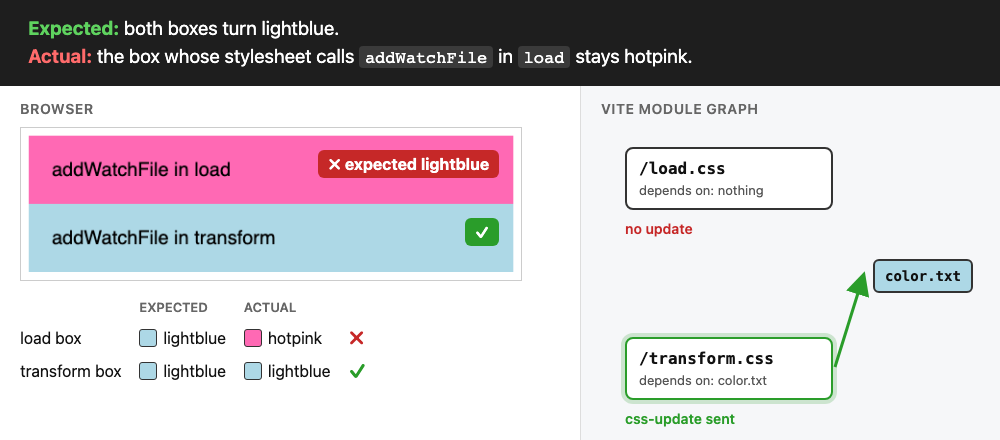
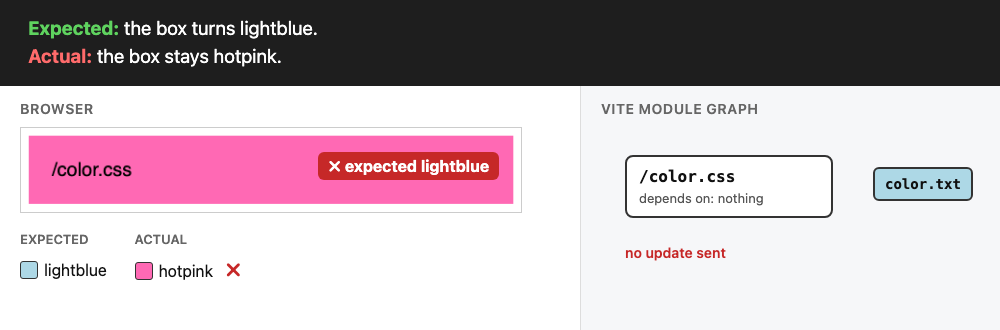
Reduce the repro to one stylesheet

diff --git a/vite.config.js b/vite.config.js
@@ -1,28 +1,20 @@
 import { readFileSync } from "node:fs";
 
 const colorFile = import.meta.dirname + "/color.txt";
-const css = (selector) => `${selector} { background: ${readFileSync(colorFile, "utf8").trim()}; }`;
 
-// Two stylesheets made from color.txt. They differ only in the hook that calls addWatchFile.
+// Makes the stylesheet /color.css from color.txt and watches color.txt
 export default {
   plugins: [
     {
       name: "color-css",
       enforce: "pre",
       resolveId(id) {
-        if (id.startsWith("/load.css") || id.startsWith("/transform.css")) {
-          return import.meta.dirname + id;
-        }
+        if (id.startsWith("/color.css")) return import.meta.dirname + id;
       },
       load(id) {
-        if (id.includes("/load.css")) {
-          this.addWatchFile(colorFile);
-          return css("#load");
-        }
-        if (id.includes("/transform.css")) return css("#transform");
-      },
-      transform(code, id) {
-        if (id.includes("/transform.css")) this.addWatchFile(colorFile);
+        if (!id.includes("/color.css")) return;
+        this.addWatchFile(colorFile);
+        return `div { background: ${readFileSync(colorFile, "utf8").trim()}; }`;
       },
     },
   ],

diff --git a/index.html b/index.html
@@ -1,6 +1,4 @@
 <!doctype html>
-<link rel="stylesheet" href="/load.css" />
-<link rel="stylesheet" href="/transform.css" />
+<link rel="stylesheet" href="/color.css" />
 <style>div { padding: 24px; font: 20px sans-serif; }</style>
-<div id="load">addWatchFile in load</div>
-<div id="transform">addWatchFile in transform</div>
+<div>/color.css</div>

diff --git a/README.md b/README.md
@@ -1,25 +1,18 @@
 # Vite: `addWatchFile` in `load` is lost on a module's first request
 
-![Step by step: the load hook calls addWatchFile before the module node exists, so Vite drops color.txt. After color.txt changes, only the stylesheet that calls addWatchFile in transform updates. Expected both boxes lightblue, actual: the load box stays hotpink](hmr.gif)
+![Step by step: the load hook calls addWatchFile before the module node exists, so Vite drops color.txt. After color.txt changes, Vite sends no update. Expected: the box turns lightblue. Actual: it stays hotpink](hmr.gif)
 
-`index.html` links two stylesheets. A plugin in `vite.config.js` makes both from `color.txt`, a file with one color, and calls `this.addWatchFile("color.txt")` for each. The only difference is the hook that makes the call. When `color.txt` changes, both boxes should take the new color.
+`index.html` links the stylesheet `/color.css`. A plugin in `vite.config.js` makes it from `color.txt`, a file with one color, and calls `this.addWatchFile("color.txt")` in `load`. When `color.txt` changes, the box should take the new color. It keeps the old one.
 
 ## Step by step
 
 The same steps as the GIF:
 
-1. The browser requests `/load.css`. Its `load` hook calls `addWatchFile(color.txt)`. The module node for `/load.css` does not exist yet, so Vite drops the file.
-2. Vite creates the node for `/load.css` after `load`. The node has no dependency.
-3. The browser requests `/transform.css`. It calls `addWatchFile(color.txt)` in `transform`. Its node exists by then, so Vite records the dependency.
-4. `color.txt` changes from hotpink to lightblue.
-5. Vite updates the modules that depend on `color.txt`. Only `/transform.css` does, so only its box turns blue.
+1. The browser requests `/color.css`. Its `load` hook calls `addWatchFile(color.txt)`. The module node for `/color.css` does not exist yet, so Vite drops the file.
+2. Vite creates the node for `/color.css` after `load`. The node does not depend on `color.txt`.
+3. `color.txt` changes from hotpink to lightblue. No module depends on it, so Vite sends no update.
 
-![Expected: both boxes lightblue. Actual: the load box stays hotpink, the transform box turns lightblue](result.png)
-
-| box                     | expected  | actual    |
-| ----------------------- | --------- | --------- |
-| `addWatchFile` in `load`      | lightblue | hotpink ✗ |
-| `addWatchFile` in `transform` | lightblue | lightblue ✓ |
+![Expected: the box turns lightblue. Actual: it stays hotpink](result.png)
 
 ## Try it
 
@@ -59,3 +52,5 @@ Creating the node before `load` fixes the repro:
 + mod ??= await moduleGraph._ensureEntryFromUrl(url, undefined, resolved)
   const loadResult = await pluginContainer.load(id)
 ```
+
+Calling `addWatchFile` in `transform` instead also works, because the node exists by then.
